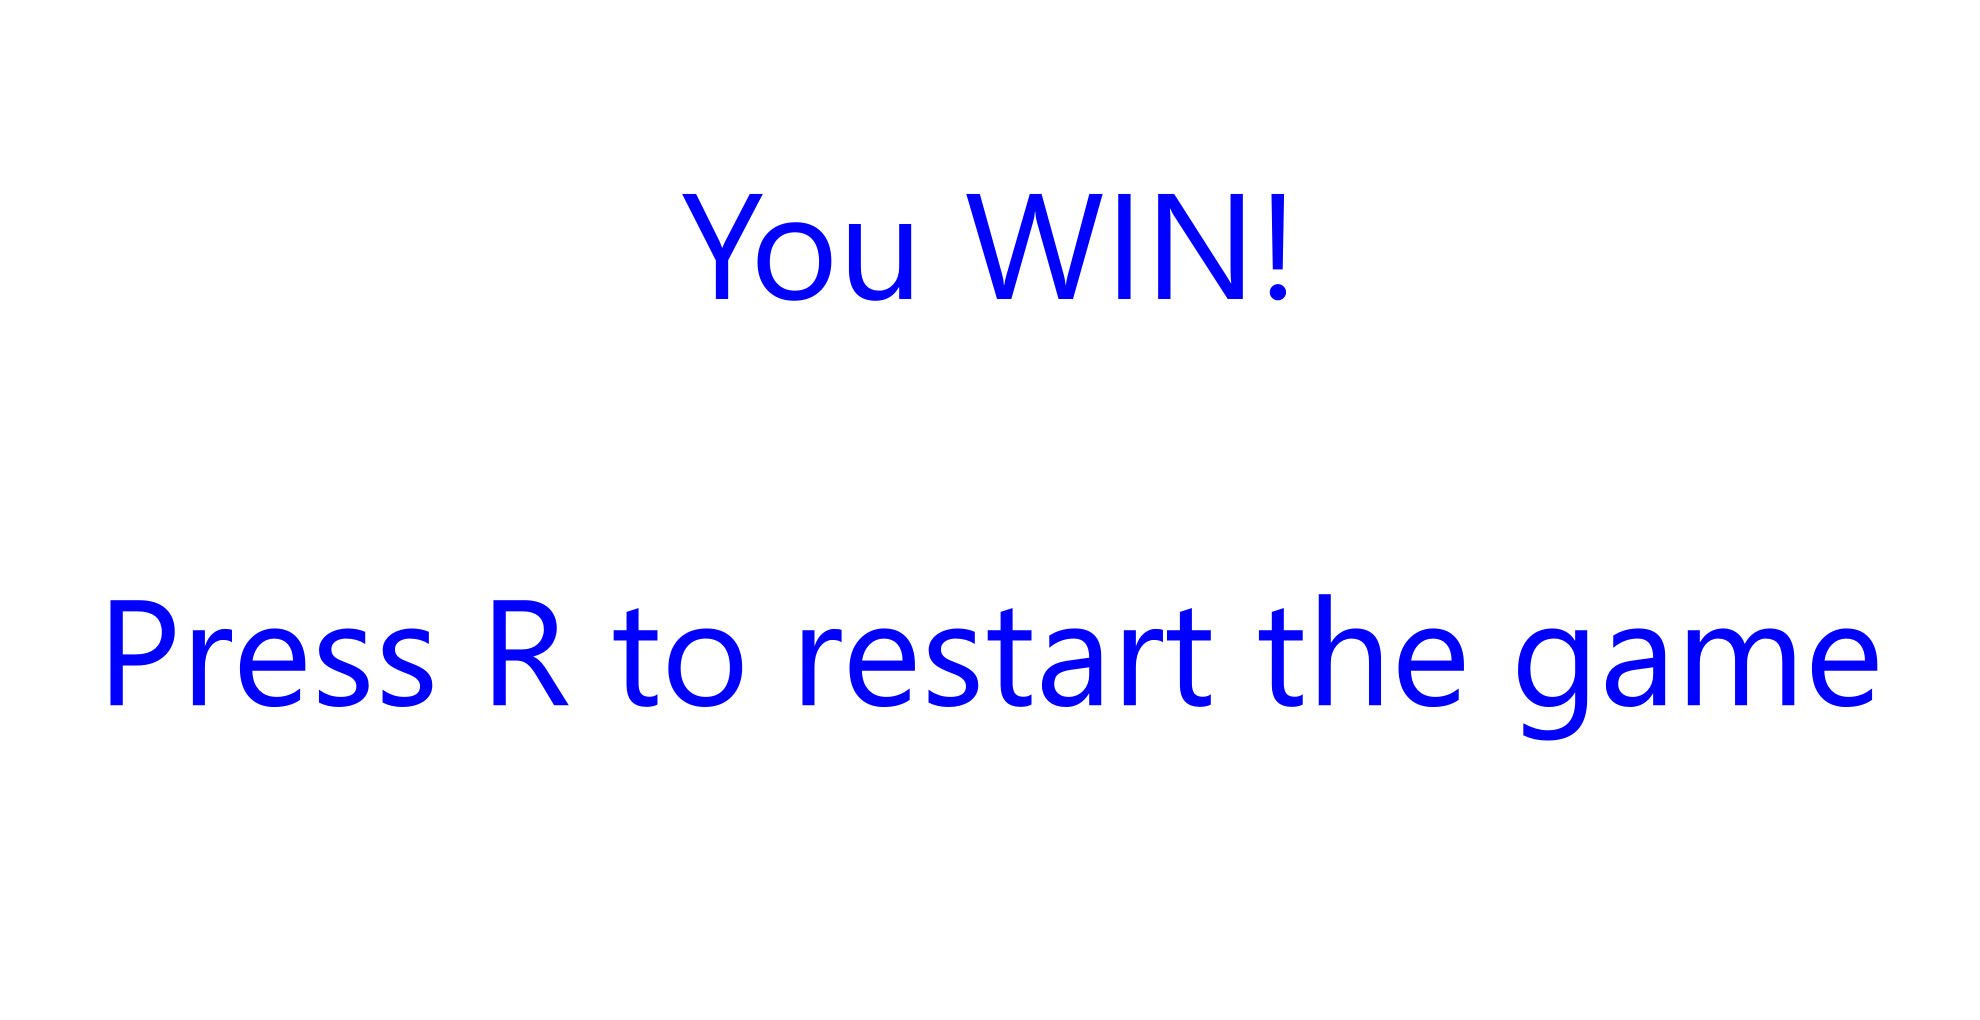
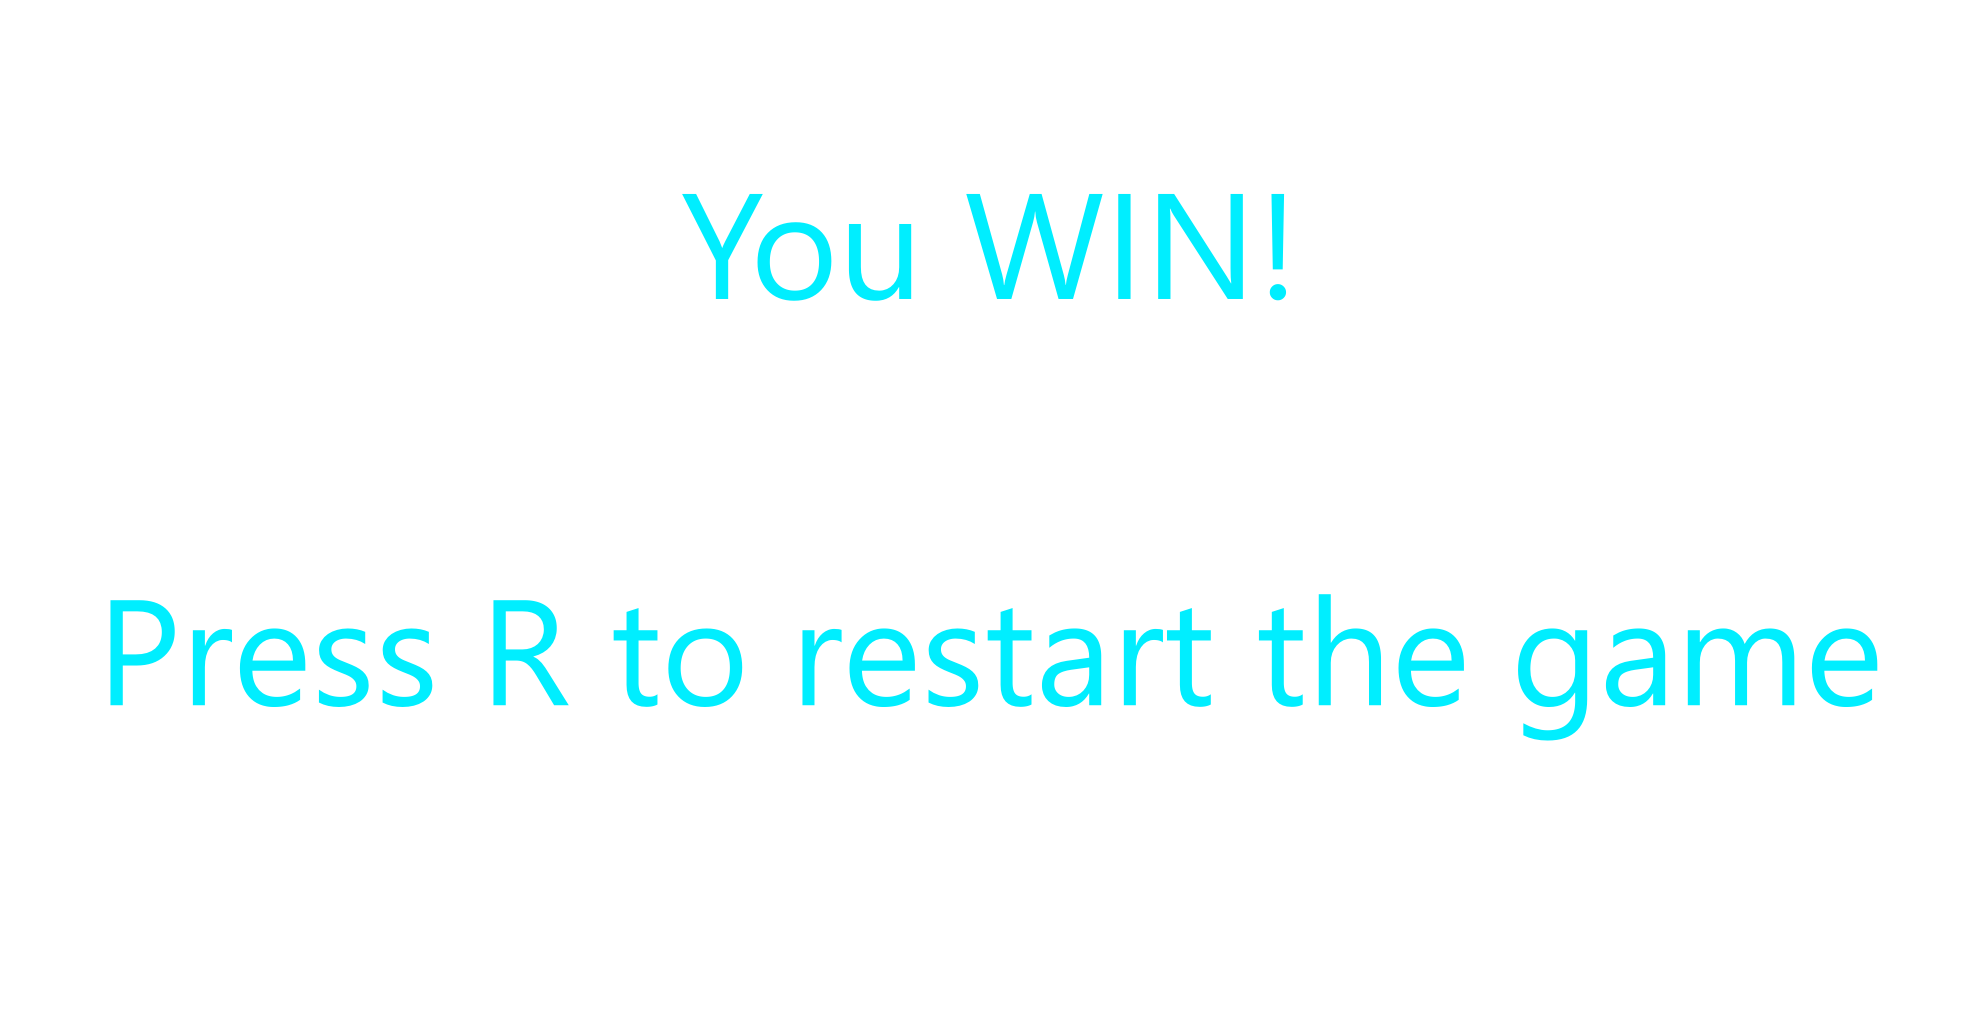
finalisation du jeu v2

diff --git a/game_sdl.c b/game_sdl.c
@@ -33,6 +33,9 @@
 #define CURRENTBLACK "res/CurrentBlack.png"
 #define CURRENTEMPTY "res/CurrentEmpty.png"
 
+#define SOLVETEXTE "res/SolveTexte.png"
+#define CURRENTTEXTE "res/CurrentTexte.png"
+
 #define TOTALNUMBER 9
 
 
@@ -66,6 +69,8 @@ struct Env_t {
   SDL_Texture* currentColorWhite;
   SDL_Texture* currentColorBlack;
   SDL_Texture* currentColorEmpty;
+  SDL_Rect currentColorTexte;
+  SDL_Texture* currentColorTextTexte;
 
   game g;
   SDL_Rect * cases;
@@ -74,6 +79,8 @@ struct Env_t {
 
   SDL_Rect solve; 
   SDL_Texture* solveText;
+  SDL_Rect SolveTexte; 
+  SDL_Texture* solveTexteText;
   color playColor;
 
   bool hasWon;
@@ -152,6 +159,12 @@ Env *init(SDL_Window *win, SDL_Renderer *ren, int argc, char *argv[]) {
   env->solveText = IMG_LoadTexture(ren, SOLVE);
   if (!env->solveText) ERROR("IMG_LoadTexture: %s\n", SOLVE);
 
+  env->currentColorTextTexte = IMG_LoadTexture(ren, CURRENTTEXTE);
+  if (!env->currentColorTextTexte) ERROR("IMG_LoadTexture: %s\n", CURRENTTEXTE);
+
+  env->solveTexteText = IMG_LoadTexture(ren, SOLVETEXTE);
+  if (!env->solveTexteText) ERROR("IMG_LoadTexture: %s\n", SOLVETEXTE);
+
   env->playColor=WHITE;
   if(argc==2){
     env->g=game_load(argv[1]);
@@ -216,15 +229,7 @@ void render(SDL_Window *win, SDL_Renderer *ren, Env *env) {
   env->game_screen_up_sidex=h/8;
   env->game_screen_down_sidex=h-h/8;
 
-  env->message_screen_left_sidex=w/4;
-  env->message_screen_right_sidex=w-w/4;
-  env->message_screen_up_sidex=h/50;
-  env->message_screen_down_sidex=h/10;
-
-  env->current_solve_left_sidex=w-w/7;
-  env->current_solve_right_sidex=w-w/20;
-  env->current_up_sidex=h/1.9;
-  env->current_down_sidex=h/1.7;
+  
 
   env->current_solve_up_sidex=h/2.1;
   env->current_solve_down_sidex=h/2.4;
@@ -235,21 +240,9 @@ void render(SDL_Window *win, SDL_Renderer *ren, Env *env) {
   env->undo_redo_left_sidex=w/1.7;
   env->undo_redo_right_sidex=w/1.4;
 
-  env->help_left_sidex=w-w/10;
-  env->help_right_sidex=w-w/25;
-  env->help_up_sidey=h/10;
-  env->help_down_sidey=h/25;
-
-  env->undo_left_sidex=w-w/1.7;
-  env->undo_right_sidex=w-w/1.4;
-
-  
 
   //game screen 
-  SDL_RenderDrawLine(ren, env->game_screen_left_sidex, env->game_screen_up_sidex, env->game_screen_left_sidex, env->game_screen_down_sidex);
-  SDL_RenderDrawLine(ren, env->game_screen_left_sidex, env->game_screen_up_sidex, env->game_screen_right_sidex, env->game_screen_up_sidex);
-  SDL_RenderDrawLine(ren, env->game_screen_right_sidex, env->game_screen_down_sidex, env->game_screen_right_sidex, env->game_screen_up_sidex);
-  SDL_RenderDrawLine(ren, env->game_screen_left_sidex, env->game_screen_down_sidex, env->game_screen_right_sidex, env->game_screen_down_sidex);
+
 
   // grid game
 
@@ -274,24 +267,15 @@ void render(SDL_Window *win, SDL_Renderer *ren, Env *env) {
     }
 
 
-  for(int i=0; i<=game_nb_cols(env->g); i++){
-    SDL_RenderDrawLine(ren, env->game_screen_left_sidex+offsetx_count, env->game_screen_up_sidex+offsety_count, env->game_screen_left_sidex+offsetx_count, env->game_screen_down_sidex-offsety_count);
-    offsetx_count+=cell_size;
-  }
-  offsetx_count=offsetx_count-(cell_size*(game_nb_cols(env->g)+1));
-  for(int i=0; i<=game_nb_rows(env->g); i++){
-    SDL_RenderDrawLine(ren, env->game_screen_left_sidex+offsetx_count, env->game_screen_up_sidex+offsety_count, env->game_screen_right_sidex-offsetx_count, env->game_screen_up_sidex+offsety_count);
-    offsety_count+=cell_size;
-  }
-  offsety_count=offsety_count-(cell_size*(game_nb_rows(env->g)+1));
+  env->message_screen_left_sidex=env->game_screen_left_sidex+offsetx_count;
+  env->message_screen_right_sidex=env->game_screen_left_sidex+game_width-offsetx_count;
+  env->message_screen_up_sidex=h/50;
+  env->message_screen_down_sidex=h/10;
 
 
 
   //message screen
-  SDL_RenderDrawLine(ren, env->message_screen_left_sidex, env->message_screen_up_sidex, env->message_screen_left_sidex, env->message_screen_down_sidex);
-  SDL_RenderDrawLine(ren, env->message_screen_left_sidex, env->message_screen_up_sidex, env->message_screen_right_sidex, env->message_screen_up_sidex);
-  SDL_RenderDrawLine(ren, env->message_screen_right_sidex, env->message_screen_down_sidex, env->message_screen_right_sidex, env->message_screen_up_sidex);
-  SDL_RenderDrawLine(ren, env->message_screen_left_sidex, env->message_screen_down_sidex, env->message_screen_right_sidex, env->message_screen_down_sidex);
+
 
   env->titleSquare.x=env->message_screen_left_sidex;
   env->titleSquare.y=env->message_screen_up_sidex;
@@ -302,10 +286,22 @@ void render(SDL_Window *win, SDL_Renderer *ren, Env *env) {
 
   //current and solve
 
+  
+  env->current_solve_left_sidex=env->game_screen_left_sidex+offsetx_count+(game_nb_cols(env->g)*cell_size)+w/20;
+  env->current_solve_right_sidex=env->game_screen_left_sidex+offsetx_count+(game_nb_cols(env->g)*cell_size)+w/8;
+  env->current_up_sidex=h/1.9;
+  env->current_down_sidex=h/1.7;
+
+
   env->currentColor.x=env->current_solve_left_sidex;
   env->currentColor.y=env->current_up_sidex;
   env->currentColor.w=env->current_solve_right_sidex-env->current_solve_left_sidex;
   env->currentColor.h=env->current_down_sidex-env->current_up_sidex;
+
+  env->currentColorTexte=env->currentColor;
+  env->currentColorTexte.y=env->currentColor.y+env->currentColor.h;
+  SDL_RenderCopy(ren, env->currentColorTextTexte, NULL, &(env->currentColorTexte));
+
 
   if(env->playColor==WHITE){
     SDL_RenderCopy(ren, env->currentColorWhite, NULL, &(env->currentColor));
@@ -323,11 +319,25 @@ void render(SDL_Window *win, SDL_Renderer *ren, Env *env) {
   env->solve.y=env->current_solve_down_sidex;
   env->solve.w=env->current_solve_right_sidex-env->current_solve_left_sidex;
   env->solve.h=env->current_solve_up_sidex-env->current_solve_down_sidex;
+
+  env->SolveTexte=env->solve;
+  env->SolveTexte.y=env->solve.y-env->solve.h;
+  SDL_RenderCopy(ren, env->solveTexteText, NULL, &(env->SolveTexte));
+
   SDL_RenderCopy(ren, env->solveText, NULL, &(env->solve));
 
 
 
+
+
+  env->up_sidey_square=h-h/12.5;
+  env->down_sidey_square=h-h/25;
+  env->undo_redo_up_sidey=h-h/16.5;
+  env->undo_redo_left_sidex=env->game_screen_right_sidex-offsetx_count-(cell_size*game_nb_cols(env->g))/3;
+  env->undo_redo_right_sidex=env->game_screen_right_sidex-offsetx_count;
   
+  env->undo_left_sidex=env->game_screen_left_sidex+offsetx_count+(cell_size*game_nb_cols(env->g))/3;
+  env->undo_right_sidex=env->game_screen_left_sidex+offsetx_count;
 
 
   //undo/redo
@@ -457,7 +467,7 @@ bool process(SDL_Window *win, SDL_Renderer *ren, Env *env, SDL_Event *e) {
     }
     // s key
     if(e->key.keysym.sym==SDLK_s){
-      game_solve(env->g);
+      game_save(env->g, "game_saved");
     }
     // r key
     else if(e->key.keysym.sym==SDLK_r){
